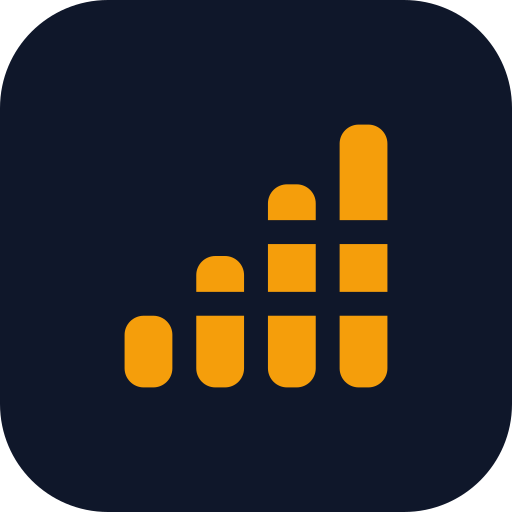
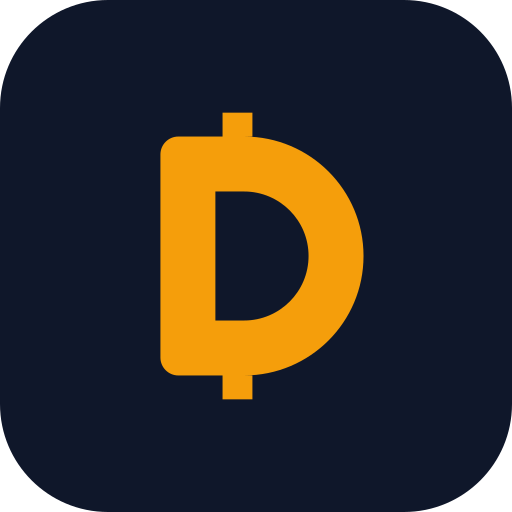
Rebrand: the Ð monogram replaces the Sat Ladder mark
A heavy geometric D — for DCA — wearing the ₿'s crown-and-tail stubs: the
monogram initials the product and carries the Bitcoin association without
borrowing the currency glyph. One path, default nonzero winding (the counter
winds opposite), so the same geometry renders identically in browsers, sharp
rasterisation, and Satori OG images — no evenodd anywhere. Favicon, PWA icons,
touch icons and social cards regenerated; service-worker cache bumped to v6 so
installed clients pick the new icons up.

Changed region(s): [[0.2188, 0.2188, 0.7812, 0.7812]]

diff --git a/src/components/brand/Logo.tsx b/src/components/brand/Logo.tsx
@@ -1,87 +1,39 @@
 import clsx from 'clsx';
 
 /**
- * The Sat Ladder — the site's single brand mark.
+ * The Ð — the site's single brand mark.
  *
- * Four rounded columns on a shared baseline, ascending left to right, with two
- * horizontal rails knocked through the tall ones. The columns are the repeated
- * fixed buy, the rising heights are accumulation, and the two rails give it the
- * ₿'s double-bar silhouette without borrowing the currency's logo outright.
+ * A heavy geometric D (for DCA) wearing the ₿'s crown-and-tail stubs: the
+ * monogram initials the product while the stubs carry the Bitcoin association
+ * without borrowing the currency glyph itself.
  *
- * Three deliberate constraints:
+ * Three deliberate constraints, carried over from the previous mark:
  *
- * 1. It is DRAWN, never typed. The old mark was a "₿" text node, and U+20BF is
- *    outside the Inter latin subset the site loads, so it silently fell back to
- *    a system font on every surface — different shape per OS, missing glyph on
- *    some Android builds.
- * 2. It is ONE `fill-rule="evenodd"` path, not a <mask>. Masks need an id, and
- *    this renders twice per page (nav + footer); a single path also survives
- *    rasterisation to .ico/.png without a masking step.
+ * 1. It is DRAWN, never typed. A "Ð" text node would fall outside the Inter
+ *    latin subset on some platforms and silently swap fonts per OS.
+ * 2. It is one path using DEFAULT (nonzero) winding — the counter subpath winds
+ *    opposite to the outer, so the hole needs no `fill-rule="evenodd"`. That
+ *    matters because Satori (next/og) has patchy evenodd support; this geometry
+ *    renders identically in browsers, sharp rasterisation, and OG images.
  * 3. It is containerless — bare geometry on transparent, coloured by
  *    `currentColor`. An amber disc is what every token logo on CoinGecko looks
  *    like and is indistinguishable in a tab strip.
  */
 
-type Rect = { x: number; y: number; w: number; h: number };
-
-/** Rounded-rect subpath. */
-function bar({ x, y, w, h }: Rect, r: number): string {
-    return [
-        `M${x + r} ${y}`,
-        `H${x + w - r}`,
-        `A${r} ${r} 0 0 1 ${x + w} ${y + r}`,
-        `V${y + h - r}`,
-        `A${r} ${r} 0 0 1 ${x + w - r} ${y + h}`,
-        `H${x + r}`,
-        `A${r} ${r} 0 0 1 ${x} ${y + h - r}`,
-        `V${y + r}`,
-        `A${r} ${r} 0 0 1 ${x + r} ${y}`,
-        'Z',
-    ].join(' ');
-}
-
-/** Square subpath — punched out of the bars by the evenodd fill rule. */
-const slot = ({ x, y, w, h }: Rect): string =>
-    `M${x} ${y} H${x + w} V${y + h} H${x} Z`;
-
-// Baseline y=23, 1 unit of margin inside a 24x24 box. Column tops are chosen so
-// no rail ever clips a column at a grazing angle and leaves a sub-pixel sliver.
-const COLUMNS: Rect[] = [
-    { x: 1, y: 17, w: 4, h: 6 },
-    { x: 7, y: 12, w: 4, h: 11 },
-    { x: 13, y: 6, w: 4, h: 17 },
-    { x: 19, y: 1, w: 4, h: 22 },
-];
-
-// Rails are cut only where a column actually stands, so the gaps between
-// columns stay empty and the mark never reads as a grid.
-const SLOTS: Rect[] = [
-    { x: 13, y: 9, w: 4, h: 2 },
-    { x: 19, y: 9, w: 4, h: 2 },
-    { x: 7, y: 15, w: 4, h: 2 },
-    { x: 13, y: 15, w: 4, h: 2 },
-    { x: 19, y: 15, w: 4, h: 2 },
-];
-
-const RADIUS = 1.6;
-
-/** Full mark: columns with the ₿ rails knocked through. */
-const PATH_FULL = [...COLUMNS.map((c) => bar(c, RADIUS)), ...SLOTS.map(slot)].join(' ');
+// Outer D: clockwise. Counter: counter-clockwise (punches the hole under the
+// nonzero rule). Stubs: the ₿ crown (top) and tail (bottom).
+const PATH_D = [
+    'M4 3.5 A1.5 1.5 0 0 1 5.5 2 H11 A10 10 0 0 1 11 22 H5.5 A1.5 1.5 0 0 1 4 20.5 Z',
+    'M8.6 6.6 V17.4 H11 A5.4 5.4 0 0 0 11 6.6 Z',
+    'M9.2 0 H11.7 V2 H9.2 Z',
+    'M9.2 22 H11.7 V24 H9.2 Z',
+].join(' ');
 
 /**
- * Small-size mark: rails dropped. At 16-32px a 2-unit rail renders around one
- * physical pixel and aliases into grey mush, taking the whole silhouette with
- * it. Four clean columns still read unmistakably as a rising stack.
+ * OG-image path. Same geometry — the mark deliberately needs no evenodd, so
+ * the one path serves every renderer.
  */
-const PATH_COMPACT = COLUMNS.map((c) => bar(c, RADIUS)).join(' ');
-
-/**
- * Rail-free mark for OG image generation. Satori (next/og) has patchy
- * `fill-rule="evenodd"` support, and a silently-ignored evenodd would fill the
- * knocked-out rails and ship a solid blob to every social unfurl. The compact
- * geometry needs no fill rule at all, so it renders identically everywhere.
- */
-export const SAT_LADDER_OG_PATH = PATH_COMPACT;
+export const BRAND_OG_PATH = PATH_D;
 
 export function Logo({
     className,
@@ -89,23 +41,23 @@ export function Logo({
     title,
 }: {
     className?: string;
-    /** Drop the rails. Use at 32px and below. */
+    /** Kept for call-site compatibility — the monogram scales without variants. */
     compact?: boolean;
     /** Accessible name. Omit when a sibling wordmark already names the link. */
     title?: string;
 }) {
+    void compact;
     return (
         <svg
             viewBox="0 0 24 24"
             fill="currentColor"
-            fillRule="evenodd"
             className={className}
             role={title ? 'img' : undefined}
             aria-hidden={title ? undefined : true}
             focusable="false"
         >
             {title && <title>{title}</title>}
-            <path d={compact ? PATH_COMPACT : PATH_FULL} />
+            <path d={PATH_D} />
         </svg>
     );
 }

diff --git a/scripts/generate-icons.js b/scripts/generate-icons.js
@@ -29,59 +29,31 @@ const TILE_BG = '#0f172a'; // slate-900 — tiles are full-bleed, so they need a
 
 // ── Geometry (mirrors src/components/brand/Logo.tsx) ─────────────────────────
 
-const bar = ({ x, y, w, h }, r) =>
-    [
-        `M${x + r} ${y}`,
-        `H${x + w - r}`,
-        `A${r} ${r} 0 0 1 ${x + w} ${y + r}`,
-        `V${y + h - r}`,
-        `A${r} ${r} 0 0 1 ${x + w - r} ${y + h}`,
-        `H${x + r}`,
-        `A${r} ${r} 0 0 1 ${x} ${y + h - r}`,
-        `V${y + r}`,
-        `A${r} ${r} 0 0 1 ${x + r} ${y}`,
-        'Z',
-    ].join(' ');
-
-const slot = ({ x, y, w, h }) => `M${x} ${y} H${x + w} V${y + h} H${x} Z`;
-
-const COLUMNS = [
-    { x: 1, y: 17, w: 4, h: 6 },
-    { x: 7, y: 12, w: 4, h: 11 },
-    { x: 13, y: 6, w: 4, h: 17 },
-    { x: 19, y: 1, w: 4, h: 22 },
-];
-
-const SLOTS = [
-    { x: 13, y: 9, w: 4, h: 2 },
-    { x: 19, y: 9, w: 4, h: 2 },
-    { x: 7, y: 15, w: 4, h: 2 },
-    { x: 13, y: 15, w: 4, h: 2 },
-    { x: 19, y: 15, w: 4, h: 2 },
-];
-
-const PATH_FULL = [...COLUMNS.map((c) => bar(c, 1.6)), ...SLOTS.map(slot)].join(' ');
-
 /**
- * Favicon-only geometry on a 16-unit integer lattice: 3-wide columns with 1-unit
- * gaps landing on whole pixels at 16px. Downsampling the 24-unit mark instead put
- * every edge on a half pixel and turned the tab icon into grey smear.
+ * The Ð monogram — a heavy geometric D (for DCA) with the ₿'s crown-and-tail
+ * stubs. Single path, DEFAULT (nonzero) winding: the counter subpath winds
+ * opposite to the outer, so no fill-rule attribute is needed and the same
+ * geometry rasterises identically in sharp, browsers, and OG images.
+ * Keep in sync with src/components/brand/Logo.tsx.
  */
-const PATH_ICON16 = [
-    { x: 0, y: 11, w: 3, h: 5 },
-    { x: 4, y: 8, w: 3, h: 8 },
-    { x: 8, y: 4, w: 3, h: 12 },
-    { x: 12, y: 0, w: 3, h: 16 },
-]
-    .map((c) => bar(c, 0.75))
-    .join(' ');
+const PATH_FULL = [
+    'M4 3.5 A1.5 1.5 0 0 1 5.5 2 H11 A10 10 0 0 1 11 22 H5.5 A1.5 1.5 0 0 1 4 20.5 Z',
+    'M8.6 6.6 V17.4 H11 A5.4 5.4 0 0 0 11 6.6 Z',
+    'M9.2 0 H11.7 V2 H9.2 Z',
+    'M9.2 22 H11.7 V24 H9.2 Z',
+].join(' ');
+
+// The monogram scales cleanly; the 16px favicon uses the same geometry rendered
+// at high density rather than a hand-snapped lattice.
+const PATH_ICON16 = PATH_FULL;
+const ICON16_BOX = 24;
 
 // ── SVG builders ─────────────────────────────────────────────────────────────
 
 /** Bare mark on transparent — browser chrome, where the surface is unknown. */
 const markSvg = (d, box, color = AMBER) =>
     Buffer.from(
-        `<svg xmlns="http://www.w3.org/2000/svg" viewBox="0 0 ${box} ${box}" width="${box}" height="${box}" fill="${color}" fill-rule="evenodd"><path d="${d}"/></svg>`,
+        `<svg xmlns="http://www.w3.org/2000/svg" viewBox="0 0 ${box} ${box}" width="${box}" height="${box}" fill="${color}"><path d="${d}"/></svg>`,
     );
 
 /**
@@ -95,7 +67,7 @@ const tileSvg = (size, radius) => {
     return Buffer.from(
         `<svg xmlns="http://www.w3.org/2000/svg" width="${size}" height="${size}" viewBox="0 0 ${size} ${size}">` +
             `<rect width="${size}" height="${size}" rx="${radius}" fill="${TILE_BG}"/>` +
-            `<g transform="translate(${inset} ${inset}) scale(${scale})" fill="${AMBER}" fill-rule="evenodd">` +
+            `<g transform="translate(${inset} ${inset}) scale(${scale})" fill="${AMBER}">` +
             `<path d="${PATH_FULL}"/></g></svg>`,
     );
 };
@@ -138,7 +110,7 @@ async function main() {
     // for the rails, so they carry the full mark.
     const frames = await Promise.all(
         [
-            { size: 16, svg: markSvg(PATH_ICON16, 16) },
+            { size: 16, svg: markSvg(PATH_ICON16, ICON16_BOX) },
             { size: 32, svg: markSvg(PATH_FULL, 24) },
             { size: 48, svg: markSvg(PATH_FULL, 24) },
         ].map(async ({ size, svg }) => ({
@@ -184,7 +156,7 @@ async function main() {
         Buffer.from(
             `<svg xmlns="http://www.w3.org/2000/svg" width="${MASKABLE}" height="${MASKABLE}" viewBox="0 0 ${MASKABLE} ${MASKABLE}">` +
                 `<rect width="${MASKABLE}" height="${MASKABLE}" fill="${TILE_BG}"/>` +
-                `<g transform="translate(${maskInset} ${maskInset}) scale(${maskScale})" fill="${AMBER}" fill-rule="evenodd">` +
+                `<g transform="translate(${maskInset} ${maskInset}) scale(${maskScale})" fill="${AMBER}">` +
                 `<path d="${PATH_FULL}"/></g></svg>`,
         ),
         { density: 1200 },

diff --git a/src/app/api/og/route.tsx b/src/app/api/og/route.tsx
@@ -1,5 +1,5 @@
 import { ImageResponse } from 'next/og';
-import { SAT_LADDER_OG_PATH } from '@/components/brand/Logo';
+import { BRAND_OG_PATH } from '@/components/brand/Logo';
 import {
     computeShareCard,
     resolveShareParams,
@@ -26,7 +26,7 @@ function Header() {
                 }}
             >
                 <svg width={64} height={64} viewBox="0 0 24 24" fill="#f59e0b">
-                    <path d={SAT_LADDER_OG_PATH} />
+                    <path d={BRAND_OG_PATH} />
                 </svg>
             </div>
             <div style={{ display: 'flex', fontSize: 30, fontWeight: 700, color: '#f8fafc', letterSpacing: -0.5 }}>
@@ -134,7 +134,7 @@ function GenericCard() {
                 }}
             >
                 <svg width={108} height={108} viewBox="0 0 24 24" fill="#f59e0b">
-                    <path d={SAT_LADDER_OG_PATH} />
+                    <path d={BRAND_OG_PATH} />
                 </svg>
             </div>
             <div

diff --git a/src/app/opengraph-image.tsx b/src/app/opengraph-image.tsx
@@ -1,5 +1,5 @@
 import { ImageResponse } from 'next/og';
-import { SAT_LADDER_OG_PATH } from '@/components/brand/Logo';
+import { BRAND_OG_PATH } from '@/components/brand/Logo';
 
 export const runtime = 'edge';
 export const alt = 'Bitcoin DCA Calculator';
@@ -22,7 +22,7 @@ export default function Image() {
                     padding: 80,
                 }}
             >
-                {/* Sat Ladder mark */}
+                {/* Ð monogram mark */}
                 <div
                     style={{
                         width: 120,
@@ -34,7 +34,7 @@ export default function Image() {
                     }}
                 >
                     <svg width={108} height={108} viewBox="0 0 24 24" fill="#f59e0b">
-                        <path d={SAT_LADDER_OG_PATH} />
+                        <path d={BRAND_OG_PATH} />
                     </svg>
                 </div>
 

diff --git a/src/app/features/opengraph-image.tsx b/src/app/features/opengraph-image.tsx
@@ -1,5 +1,5 @@
 import { ImageResponse } from 'next/og';
-import { SAT_LADDER_OG_PATH } from '@/components/brand/Logo';
+import { BRAND_OG_PATH } from '@/components/brand/Logo';
 
 export const runtime = 'edge';
 export const alt = 'Bitcoin DCA Calculator Features Guide';
@@ -28,7 +28,7 @@ export default function Image() {
                     fill="#f59e0b"
                     style={{ marginBottom: 24 }}
                 >
-                    <path d={SAT_LADDER_OG_PATH} />
+                    <path d={BRAND_OG_PATH} />
                 </svg>
                 <div
                     style={{

diff --git a/src/app/self-custody/opengraph-image.tsx b/src/app/self-custody/opengraph-image.tsx
@@ -1,5 +1,5 @@
 import { ImageResponse } from 'next/og';
-import { SAT_LADDER_OG_PATH } from '@/components/brand/Logo';
+import { BRAND_OG_PATH } from '@/components/brand/Logo';
 
 export const runtime = 'edge';
 export const alt = 'Why Self-Custody Matters for Bitcoin';
@@ -28,7 +28,7 @@ export default function Image() {
                     fill="#f59e0b"
                     style={{ marginBottom: 24 }}
                 >
-                    <path d={SAT_LADDER_OG_PATH} />
+                    <path d={BRAND_OG_PATH} />
                 </svg>
                 <div
                     style={{

diff --git a/src/app/why-bitcoin/opengraph-image.tsx b/src/app/why-bitcoin/opengraph-image.tsx
@@ -1,5 +1,5 @@
 import { ImageResponse } from 'next/og';
-import { SAT_LADDER_OG_PATH } from '@/components/brand/Logo';
+import { BRAND_OG_PATH } from '@/components/brand/Logo';
 
 export const runtime = 'edge';
 export const alt = 'Why Bitcoin Has Value';
@@ -28,7 +28,7 @@ export default function Image() {
                     fill="#f59e0b"
                     style={{ marginBottom: 24 }}
                 >
-                    <path d={SAT_LADDER_OG_PATH} />
+                    <path d={BRAND_OG_PATH} />
                 </svg>
                 <div
                     style={{

diff --git a/src/app/embed/page.tsx b/src/app/embed/page.tsx
@@ -189,7 +189,7 @@ function Brand({ href }: { href: string }) {
             rel="noopener"
             className="group flex min-w-0 items-center gap-2"
         >
-            {/* The Sat Ladder, same as every other surface. This was the last
+            {/* The Ð monogram, same as every other surface. This was the last
                 ₿-in-a-disc left in the codebase, and it was on the one component
                 that renders on OTHER people's sites — so the most brand-visible
                 surface was the only one still showing the retired mark. */}

diff --git a/src/app/page.tsx b/src/app/page.tsx
@@ -249,7 +249,7 @@ export default function Home() {
 
         {/* Hero Section */}
         {/* No hero-glow: the radial wash was a 1.04:1 tint that read as gradient
-            banding rather than depth. The amber Sat Ladder in the nav carries the
+            banding rather than depth. The amber Ð monogram in the nav carries the
             brand; the H1's job is to be read. */}
         <section className="text-center max-w-3xl mx-auto space-y-3 sm:space-y-4 pt-2 sm:pt-6">
           {/* Flat, not bg-clip-text. Logo.tsx already documents why that technique

diff --git a/public/sw.js b/public/sw.js
@@ -4,7 +4,7 @@
 // its chunks. The new worker deliberately does NOT skipWaiting/claim: it only
 // activates (and purges old caches) once every tab from the previous deploy has
 // closed, so open tabs never lose the hashed chunks they are still lazy-loading.
-const CACHE_VERSION = 'btc-dca-v5';
+const CACHE_VERSION = 'btc-dca-v6';
 const OFFLINE_URL = '/offline';
 
 const PRECACHE = `${CACHE_VERSION}-precache`;
